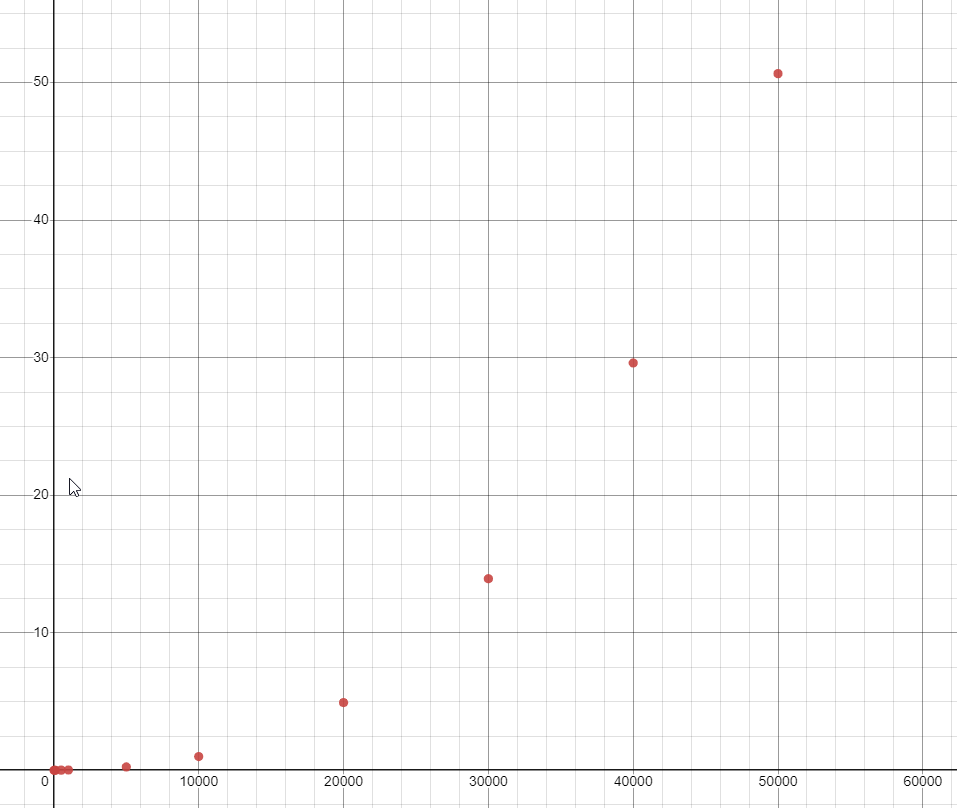
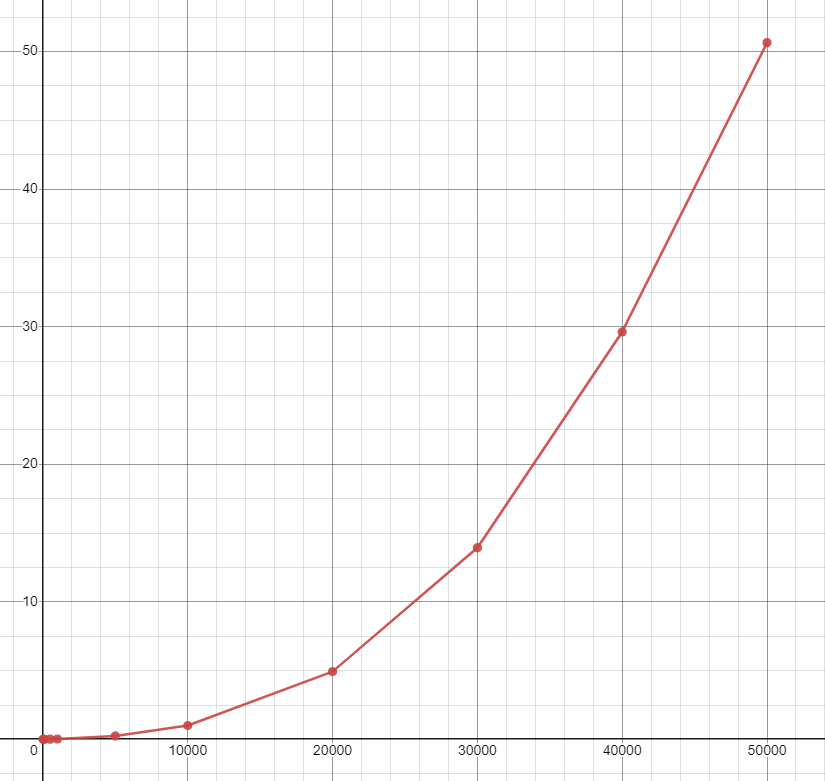
Итерация 1: * Добавлена информация в `case-study` и графики. * Бенчмарк вынесен в отдельный файл. * Тест вынесен в отдельный файл. * Создан спек для закрепления результата. * Изменена основная программа для возможности работы с разными файлами.

Changed region(s): [[0.0, 0.0, 1.0, 1.0], [0.3333, 0.0, 0.3636, 0.0307]]

diff --git a/task-1.rb b/task-1.rb
@@ -3,9 +3,6 @@
 require 'json'
 require 'pry'
 require 'date'
-require 'benchmark'
-
-include Benchmark
 
 class User
   attr_reader :attributes, :sessions
@@ -98,10 +95,10 @@ def work(filename = 'data.txt')
   # Статистика по пользователям
   users_objects = []
 
+  user_sessions = sessions.group_by { |session| session['user_id'] }
   users.each do |user|
     attributes = user
-    user_sessions = sessions.select { |session| session['user_id'] == user['id'] }
-    user_object = User.new(attributes: attributes, sessions: user_sessions)
+    user_object = User.new(attributes: attributes, sessions: user_sessions[user['id']])
     users_objects = users_objects + [user_object]
   end
 
@@ -109,7 +106,7 @@ def work(filename = 'data.txt')
 
   # Собираем количество сессий по пользователям
   collect_stats_from_users(report, users_objects) do |user|
-    { 'sessionsCount' => user.sessions.count }
+    { 'sessionsCount' => user.sessions&.count.to_i }
   end
 
   # Собираем количество времени по пользователям
@@ -145,10 +142,24 @@ def work(filename = 'data.txt')
   File.write('result.json', "#{report.to_json}\n")
 end
 
-Benchmark.bm do |x|
-  [10, 50, 100, 500, 1_000, 5_000, 10_000, 20_000, 30_000, 40_000, 50_000].each do |n|
-    filename = "data_large#{n}.txt"
-    `head -n #{n} data_large.txt > data_large#{n}.txt` unless File.exist?(filename)
-    x.report("n=#{n}") { work(filename) }
+# Метод для запуска работы с разным количеством строк файла `data_large.txt`
+# @param [Integer] n количество строк
+# @return [void]
+def work_with_line_count(n)
+  filename = "data_large#{n}.txt"
+  `head -n #{n} data_large.txt > data_large#{n}.txt` unless File.exist?(filename)
+  work(filename)
+ensure
+  File.delete(filename) if File.exist?(filename)
+end
+
+if ENV.key? 'LINE_COUNT'
+  line_count = ENV['LINE_COUNT'].to_i
+  work_with_line_count(line_count)
+else
+  if ENV.key? 'FILE_NAME'
+    work ENV['FILE_NAME']
+  else
+    work
   end
 end

diff --git a/task-1_spec.rb b/task-1_spec.rb
@@ -1,0 +1,17 @@
+require 'rspec-benchmark'
+require './task-1'
+
+RSpec.configure do |config|
+  config.include RSpec::Benchmark::Matchers
+end
+
+describe 'Performance' do
+  describe '#work' do
+    let(:line_count) { 20_001 }
+    let(:expected_time) { 4 }
+
+    it 'works under or equal expected time' do
+      expect { work_with_line_count(line_count) }.to perform_under(expected_time).sec.warmup(2).times.sample(4).times
+    end
+  end
+end

diff --git a/task-1_benchmark.rb b/task-1_benchmark.rb
@@ -1,0 +1,10 @@
+require 'benchmark'
+require './task-1'
+
+include Benchmark
+
+Benchmark.bm do |x|
+  [11, 51, 100, 501, 1_000, 5_000, 10_000, 20_001, 30_000, 40_000, 50_000].each do |line_count|
+    x.report("line_count = #{line_count}") { work_with_line_count(line_count) }
+  end
+end

diff --git a/case-study.md b/case-study.md
@@ -11,11 +11,27 @@
 
 Я решил исправить эту проблему, оптимизировав эту программу.
 
+Для начала я запустил небольшой бенчмарк, чтобы понять, какая асимптотика у программы. Для каждого измерения взял первые `n` строк из файла с полными данными. Результаты бенчмарка выглядели так:
+
+```
+                    user       system     total    real
+line_count = 10     0.001417   0.000258   0.001675 (  0.011769)
+line_count = 50     0.001417   0.000258   0.001675 (  0.011346)
+line_count = 100    0.002608   0.000000   0.002608 (  0.013075)
+line_count = 500    0.002582   0.009544   0.012126 (  0.022563)
+line_count = 1000   0.009544   0.010132   0.019676 (  0.030331)
+line_count = 5000   0.218717   0.020935   0.239652 (  0.253703)
+line_count = 10000  0.979160   0.000000   0.979160 (  1.010272)
+line_count = 20000  4.887525   0.017847   4.905372 (  4.930110)
+line_count = 30000 13.817134   0.099889  13.917023 ( 13.935027)
+line_count = 40000 29.488743   0.109932  29.598675 ( 29.619598)
+line_count = 50000 50.501303   0.109971  50.611274 ( 50.648952)
+```
 График зависимости времени работы программы от объёма входных данных выглядел так:
 
 ![График зависимости времени работы программы](execution%20time%20graph.png "График зависимости времени работы программы")
 
-Судя по графику, программа работала с асимптотикой `O(n^2)`, что неудивительно, ведь в ней был вложенный цикл.
+Судя по графику, программа работала с асимптотикой `O(n^2)`.
 
 ## Формирование метрики
 Для того, чтобы понимать, дают ли мои изменения положительный эффект на быстродействие программы я придумал использовать такую метрику: время работы программы на полном объёме данных.
@@ -26,18 +42,45 @@
 ## Feedback-Loop
 Для того, чтобы иметь возможность быстро проверять гипотезы я выстроил эффективный `feedback-loop`, который позволил мне получать обратную связь по эффективности сделанных изменений за *время, которое у вас получилось*
 
-Вот как я построил `feedback_loop`: *как вы построили feedback_loop*
+Вот как я построил `feedback_loop`:
+1. Запуск профилировщик `rbspy` на малом объёме данных.
+2. Анализ отчёта профилировщика и выявление главной точки роста.
+3. Оптимизация главной точки роста.
+4. Запуск теста идущего в комплекте с программой.
+5. Запуск бенчмарка на малых объёмах данных и проверка попадания в бюджет.
+6. Закрепление изменений в системе контроля версий.
+7. Обновление бюджета в бенчмарке.
 
 ## Вникаем в детали системы, чтобы найти главные точки роста
 Для того, чтобы найти "точки роста" для оптимизации я воспользовался *инструментами, которыми вы воспользовались*
 
 Вот какие проблемы удалось найти и решить
 
-### Ваша находка №1
-- какой отчёт показал главную точку роста
-- как вы решили её оптимизировать
-- как изменилась метрика
-- как изменился отчёт профилировщика - исправленная проблема перестала быть главной точкой роста?
+### Итерация №1
+- Использовался отчёт профилировщика `rbspy` при запуске на файле с 10000 строк. Отчёт показал, что больше всего времени программа тратит на выборку сессий по пользователю из массива сессий.
+- Было принято решение вынести эту строку из цикла и вместо этого выполнить `Array#group_by`.
+- Время выполнения программы на файле с 10000 строками уменьшилось с 1.010272 до 0.283054 секунды.
+- Также уменьшилось время выполнения программы на файлах большего размера.
+  ```
+                      user       system     total    real
+  line_count = 11     0.001461   0.000487   0.001948 (  0.012805)
+  line_count = 51     0.002695   0.000898   0.003593 (  0.009555)
+  line_count = 100    0.003591   0.001197   0.004788 (  0.010995)
+  line_count = 501    0.006650   0.000000   0.008918 (  0.019601)
+  line_count = 1000   0.012564   0.000000   0.015094 (  0.029157)
+  line_count = 5000   0.050438   0.019783   0.073774 (  0.103414)
+  line_count = 10000  0.160801   0.000000   0.170127 (  0.283054)
+  line_count = 20001  0.400933   0.048675   0.455922 (  0.547208)
+  line_count = 30000  0.637398   0.019211   0.666364 (  0.770074)
+  line_count = 40000  0.978085   0.010174   1.003803 (  1.200759)
+  line_count = 50000  1.290851   0.019795   1.325995 (  1.518988)
+  ```
+- График зависимости времени работы программы от объёма входных данных стал выглядеть так (синие точки):
+
+  ![График зависимости времени работы программы](execution%20time%20graph%20-%20after%201st%20iteration.png "График зависимости времени работы программы")
+  ![График зависимости времени работы программы](execution%20time%20graph%20-%20after%201st%20iteration%20-%20zoom.png "График зависимости времени работы программы")
+  Судя по изменившейся форме графика можно сделать вывод, что асимптотика стала линейной в данном диапазоне обрабатываемых строкб возможно на более крупном масштабе мы увидим ещё одну степенную асимптоту.
+- Отчёт профилировщика изменился значительно: исправленная проблема перестала быть главной точкой роста, время подключения библиотек стало основным.
 
 ### Ваша находка №2
 - какой отчёт показал главную точку роста
